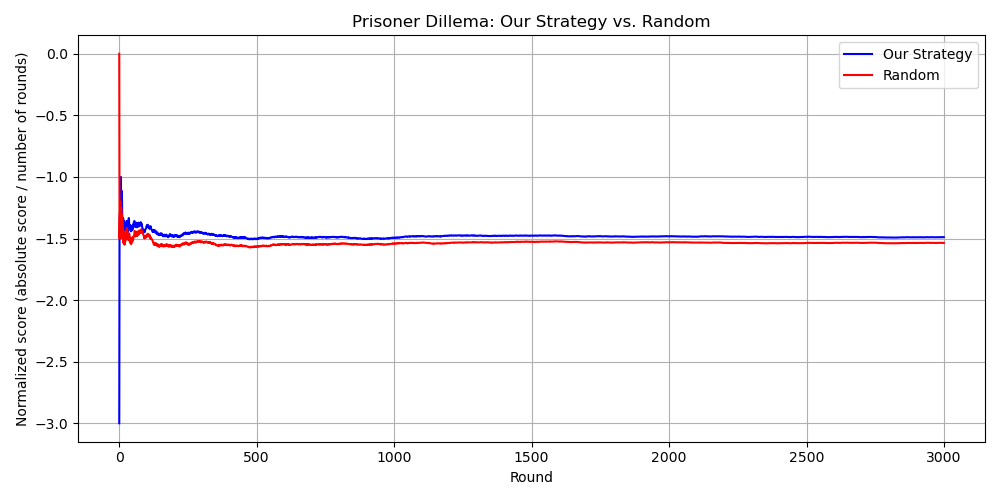
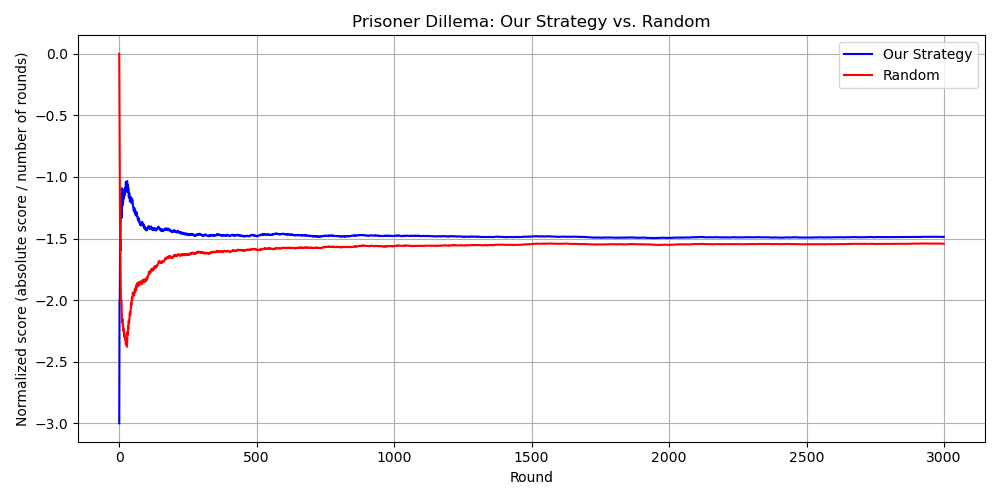
improved our strategy in the using_Distance file_only

Changed region(s): [[0.093, 0.36, 0.961, 0.69]]

diff --git a/Week 3 evolution of cooporation/Sarit_and_Itamar_strategy_using_distances.py b/Week 3 evolution of cooporation/Sarit_and_Itamar_strategy_using_distances.py
@@ -60,6 +60,14 @@ import random
 # start by cooperation. if opponent is tit-for-tat, the next round he will cooperate
 # this also applies to 2nd move, since the game in the 1st move will have a random start in any case.
 
+def grim_trigger(flag, opponent_history):
+    if opponent_history[-1] == 'defect':
+        flag = True
+    if flag == True:
+        return 'defect'
+    else:
+        return 'cooperate', flag
+
 
 def tit_for_tat(my_history, opponent_history):
     if random.random() < 0.03:
@@ -89,8 +97,8 @@ def cooperarte():
 
 
 def defect():
-    # if random.random() < 0.01:
-    #     return 'cooperate'
+    if random.random() < 0.01:
+        return 'cooperate'
     return 'defect'
 
 
@@ -235,7 +243,13 @@ def strategy(my_history: List[str], opponent_history: List[str]) -> str:
     Output:
         Either "cooperate" or "defect" """
     opp_strategy = 'random'
-    if len(my_history) > 10:
+    if len(my_history)<=1:
+        return 'cooperate'
+    elif 1<len(my_history) < 29:
+        return 'defect'
+    elif 29<=len(my_history)<30:
+        return 'cooperate'
+    else:
         opp_strategy = detect_opponents_strategy(my_history[-30:], opponent_history[-30:])
     if opp_strategy == 'random':
 
@@ -243,9 +257,11 @@ def strategy(my_history: List[str], opponent_history: List[str]) -> str:
 
         return tit_for_tat(my_history, opponent_history)
     elif opp_strategy == 'tit_for_tat':
-        return cooperarte()
-    elif opp_strategy == 'grim_trigger' or opp_strategy == 'always_defect' or opp_strategy == 'always_cooperate':
+        tit_for_tat(my_history, opponent_history)
+    elif opp_strategy == 'grim_trigger' or opp_strategy == 'always_defect':
         return defect()  # if we detected it, opponent is already in 'always_defect' mode
+    if opp_strategy == 'always_cooperate':
+        return defect()
     elif opp_strategy == 'tit_for_two_tat':
         if my_history[-1] == 'defect':
             return cooperarte()

diff --git a/Week 3 evolution of cooporation/Arena.py b/Week 3 evolution of cooporation/Arena.py
@@ -1,4 +1,4 @@
-import SaritItamar_strategy
+import Sarit_and_Itamar_strategy_using_distances as SaritItamar_strategy
 import matplotlib.pyplot as plt
 
 class Player:
@@ -62,7 +62,7 @@ def run_simulation_vs_tit_for_tat(pointing_rules, number_of_rounds):
     opp_score_log = []
     for i in range(number_of_rounds):
         our_choice = us.strategy(our_history, tit_for_tat_opp_history)
-        tit_for_tat_opponent_choice = tit_for_tat_opp.strategy(tit_for_tat_opp_history, our_history)
+        tit_for_tat_opponent_choice = tit_for_tat_opp.strategy(our_history, tit_for_tat_opp_history)
 
         our_history.append(our_choice)
         tit_for_tat_opp_history.append(tit_for_tat_opponent_choice)
